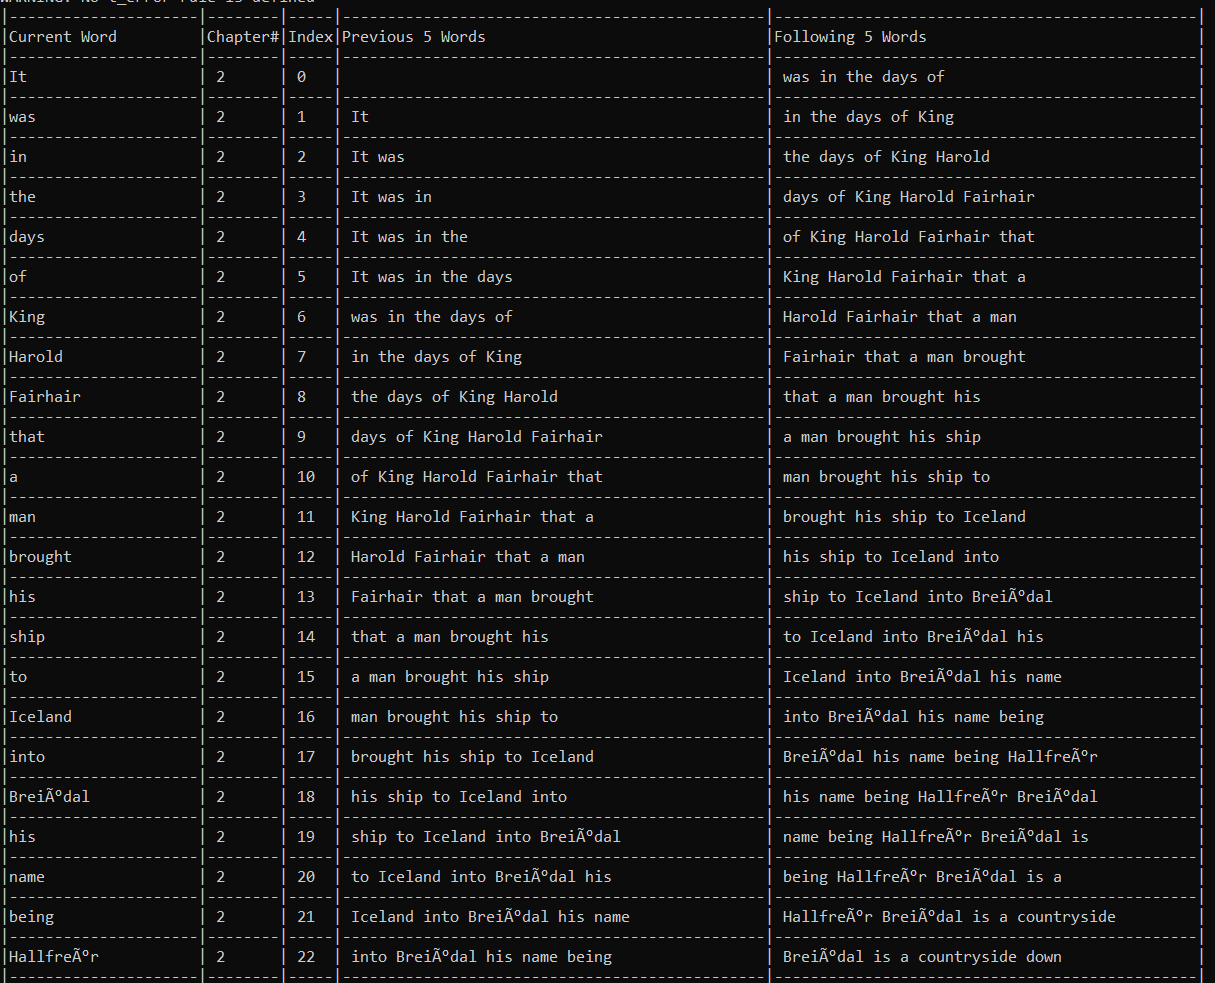
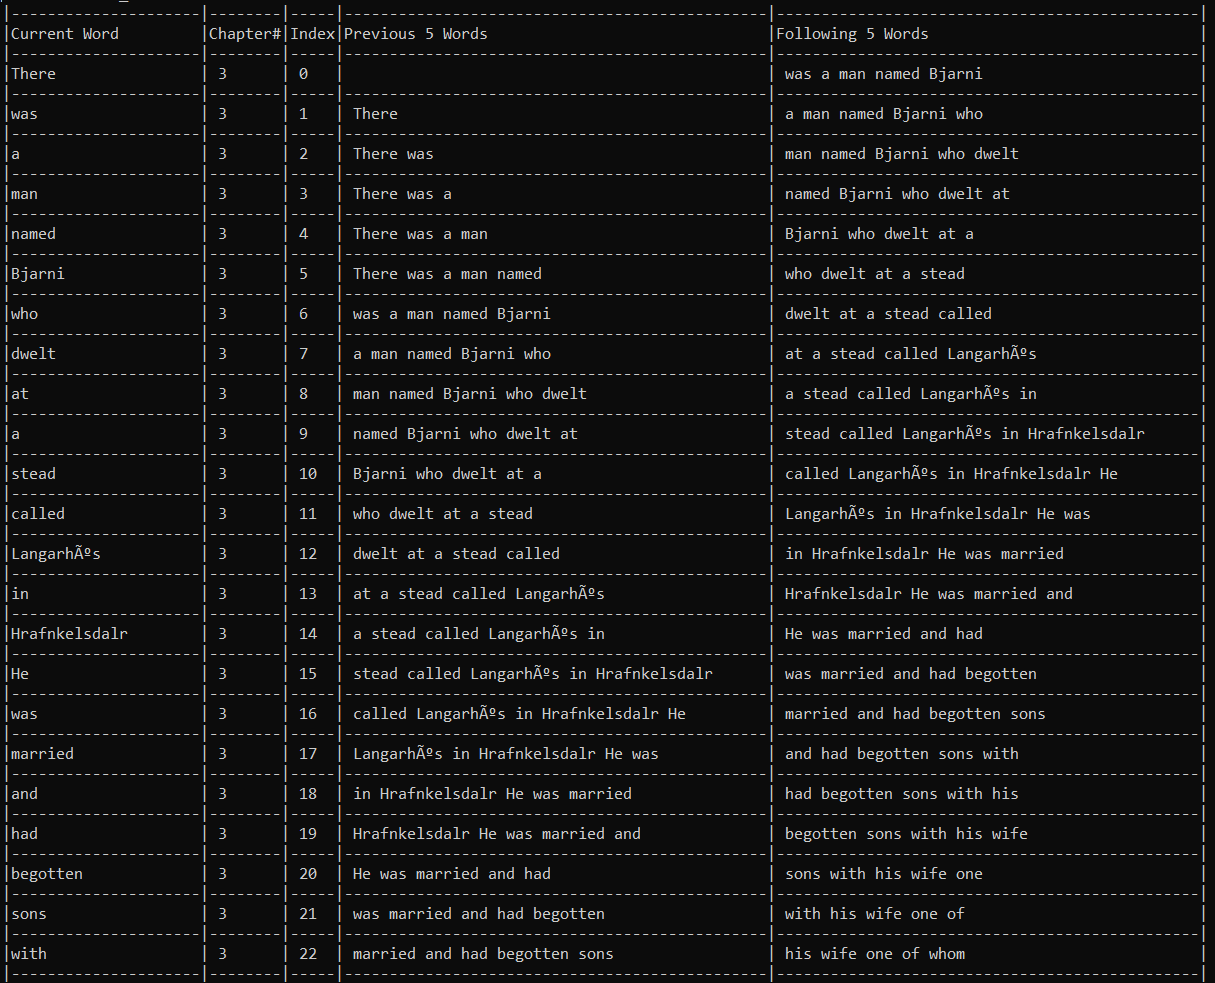
wasn't printing chapters correctly

diff --git a/WrenParkerIndex.py b/WrenParkerIndex.py
@@ -45,7 +45,7 @@ def buildTable(table, chapterNum, sorted=False):
                     print(" ", end="")
             print("|", end=" ")
 
-            print("2", end=" ")
+            print(chapterNum, end=" ")
             print("     |", end=" ")
 
             print(entry[key]['index'], end=" ")
